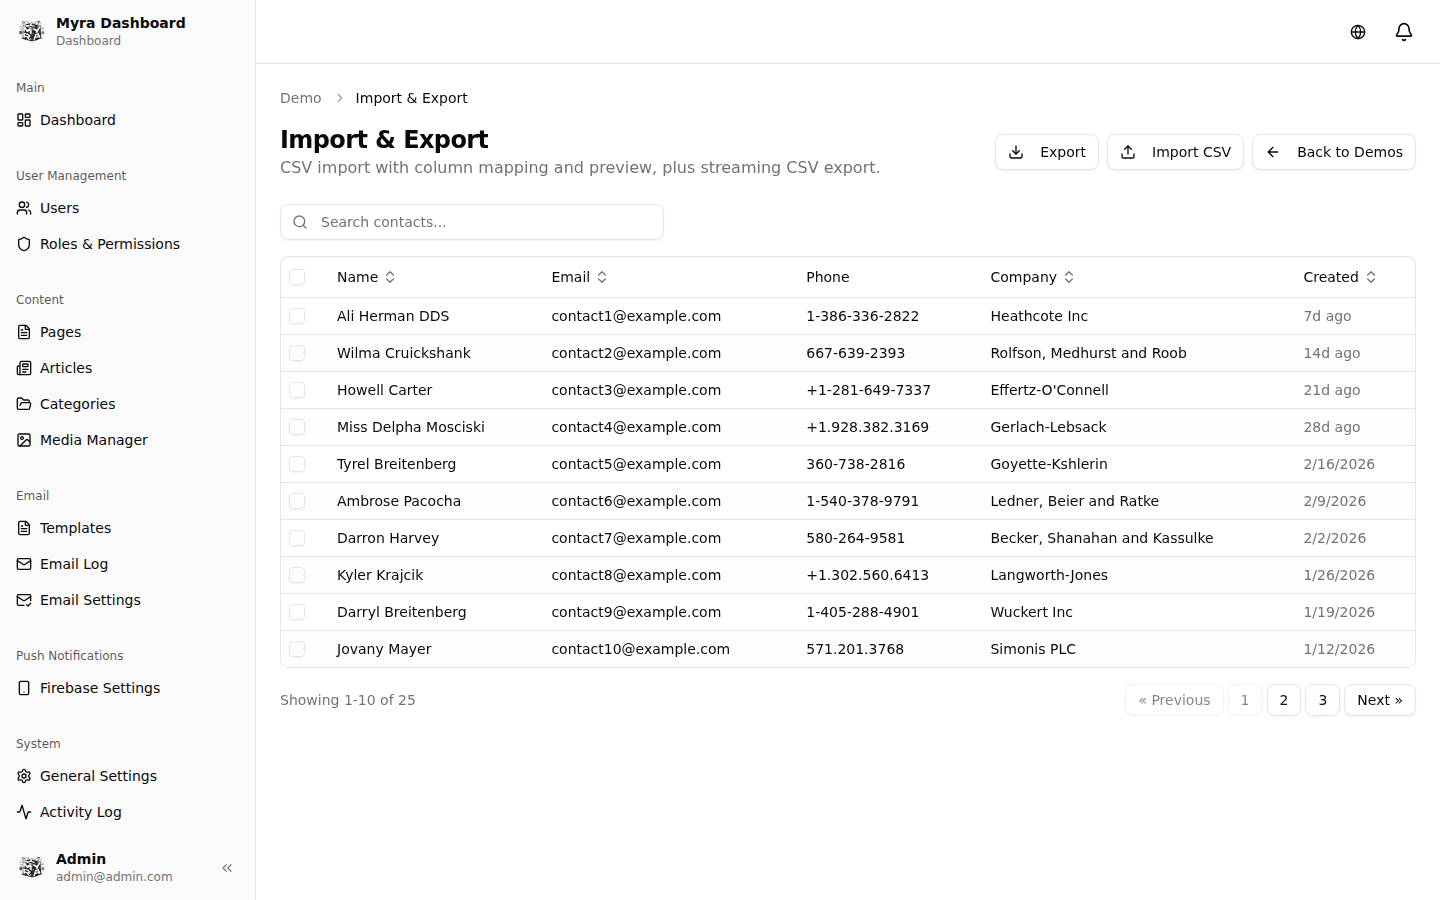
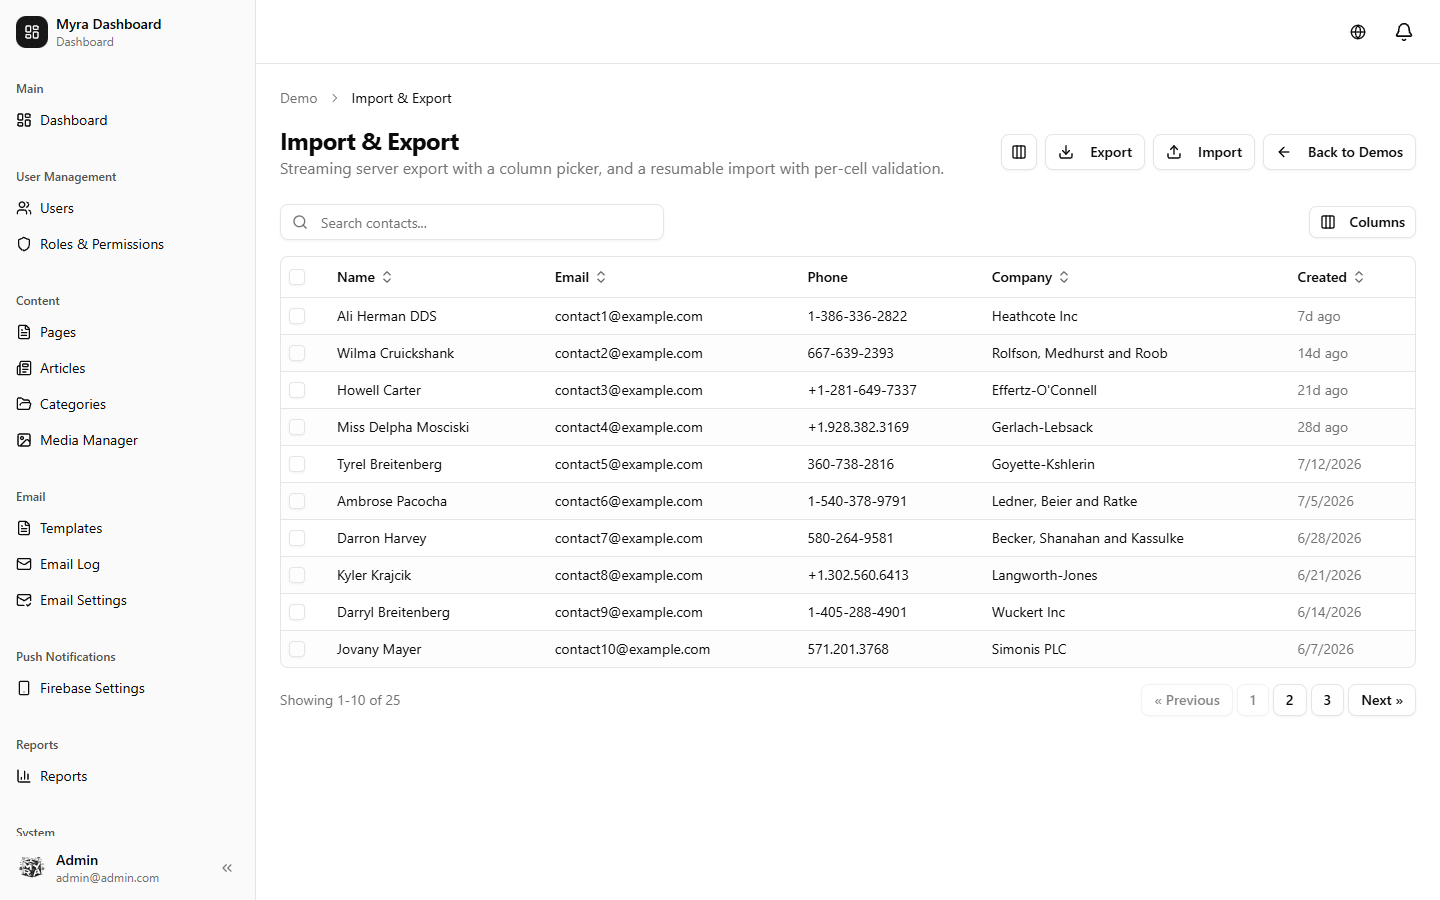
docs: What's New at the top of the README + reporting/dashboard/sql-safety pages, refreshed screenshots
- README: version badge 2.0.0 -> 2.5.1, What's New section covering v2.1.0-v2.5.1 with screenshots
- New docs: reporting.md, dashboard.md, sql-safety.md (previously zero coverage)
- 18 screenshots captured against production; adds the v2.3-v2.5 surfaces
- take-screenshots-v25.mjs: same shape as the existing scripts, chrome path env-overridable

diff --git a/README.md b/README.md
@@ -2,7 +2,7 @@
 
 A production-ready **Laravel 12 + Inertia.js + Vue 3** admin dashboard starter kit with a Filament-style code generator, role-based access control, per-user data isolation, a built-in CMS, an AI writing assistant, and 55+ UI components — so you can ship admin panels with very little hand-written code.
 
-![Version](https://img.shields.io/badge/version-2.0.0-6366f1)
+![Version](https://img.shields.io/badge/version-2.5.1-6366f1)
 [![Tests](https://github.com/spideyrex/myra-starter-kit/actions/workflows/tests.yml/badge.svg)](https://github.com/spideyrex/myra-starter-kit/actions/workflows/tests.yml)
 ![Laravel](https://img.shields.io/badge/Laravel-12-FF2D20?logo=laravel&logoColor=white)
 ![Vue](https://img.shields.io/badge/Vue-3.5-4FC08D?logo=vuedotjs&logoColor=white)
@@ -16,8 +16,102 @@ A production-ready **Laravel 12 + Inertia.js + Vue 3** admin dashboard starter k
 
 ---
 
+## What's New
+
+Everything below shipped after v2.0.0. Every subsystem marked **opt-in** is **off by default** —
+deploying the code changes nothing until you set its flag.
+
+### v2.5.1 — latest
+Runtime dependency fix: `fakerphp/faker` moved from `require-dev` to `require`. App code calls
+`fake()` in 24 places, and production deploys with `--no-dev`, so two demo pages had been returning
+500 since v2.2.0. A guard test now fails CI if runtime code calls into a dev-only package.
+Also: `ESCAPE` handling under MySQL `NO_BACKSLASH_ESCAPES`, and inline-upload URLs no longer
+double the `inline` path segment.
+
+### v2.5.0 — Dashboards, realtime, gallery, AI
+| | |
+|---|---|
+| **Dashboard editor** | Drag-and-drop tiles, per-user saved layouts, widget catalogue, keyboard reordering |
+| **Realtime widgets** *(opt-in)* | Live refresh over Echo on a shared bus — one subscription, not one per widget |
+| **Component gallery** | Searchable catalogue with a live props playground and copy-paste snippets |
+| **Command palette** | Mounted globally across every admin surface |
+| **AI ask bar** *(opt-in)* | Plain-language filters compiled to a **validated rule tree** — never to SQL |
+| **PWA shell** *(opt-in)* | Installable offline shell; caches static assets only, never your data |
+| **Loading states** | Skeleton/streaming states as the default for data surfaces |
+
+<p align="center">
+  <img src="public/docs/screenshots/demo-dashboard-editor.png" alt="Drag-and-drop dashboard editor" width="900">
+  <br><em>Dashboard editor — drag tiles, save a personal layout, add widgets from the catalogue</em>
+</p>
+
+<p align="center">
+  <img src="public/docs/screenshots/demo-playground.png" alt="Component playground" width="900">
+  <br><em>Component gallery with a live props playground</em>
+</p>
+
+### v2.4.0 — Extension, structure, tenancy, scale
+- **Plugin system** — packages that register pages, resources, widgets, permissions and nav.
+  A plugin that fails to load is quarantined, never fatal.
+- **Clusters** + nested and singular resources, with server-contributed navigation.
+- **Multi-tenancy** *(opt-in, `MYRA_TENANCY`)* — full tenant scoping on the teams tables.
+- **Testing helpers** — `InteractsWithMyra`, `TableProbe`, `SchemaProbe`, `ActionProbe`.
+- **100k+ rows** — virtualised rendering, cursor pagination, sort-index guard.
+- Generators: 8 → **13**.
+
+<p align="center">
+  <img src="public/docs/screenshots/demo-scale.png" alt="Virtualised table at scale" width="900">
+  <br><em>Virtualised rows and cursor pagination</em>
+</p>
+
+### v2.3.0 — Reporting, graphs & charts
+- **Report builder** — composable definitions (source, dimensions, measures, filters) with **all
+  aggregation in SQL**, never in PHP or the browser.
+- **15 chart types** — bar/stacked/horizontal, line, area, pie, doughnut, radar, scatter, polar,
+  plus heatmap, funnel, gauge and sparkline as inline SVG.
+- **Drill-down** from a chart segment into the filtered table, and **cross-filtering** between widgets.
+- **Scheduled reports** (cron → render → email) and **PDF export** — no new composer dependency.
+- **Comparison periods** on stat and chart widgets.
+
+<p align="center">
+  <img src="public/docs/screenshots/demo-reports.png" alt="Report builder" width="900">
+  <br><em>Report builder with drill-down and comparison periods</em>
+</p>
+
+### v2.2.0 / v2.2.1 — Table power features
+- **Saved views** — named filter + column + sort presets, per user, shareable.
+- **Column manager** with presets and persistence.
+- **Streaming export** that never buffers the full result set; **resumable import** with column
+  auto-mapping, validation preview and a partial-failure report.
+- **Nested AND/OR query builder** with server-side column and operator whitelisting.
+- **Ranked global search**, scoped per resource.
+- **Security (v2.2.1)** — six unescaped `LIKE` call sites migrated to `Sql::whereLike()`; a `%` in a
+  search box no longer matches every row. Relation sort columns are whitelisted.
+
+<p align="center">
+  <img src="public/docs/screenshots/demo-saved-views.png" alt="Saved views and column manager" width="900">
+  <br><em>Saved views and the column manager</em>
+</p>
+
+### v2.1.0 — Filament v5 parity
+- Form fields: **code** (lazy CodeMirror 6), **markdown**, toggle-buttons, and `hint()` / `hintAction()`
+  across every field type.
+- Table columns: **color**, **checkbox** (inline edit), and summaries extended with min/max/median/range.
+- Infolist: **color** and **code** entries.
+- Actions: **replicate**, **restore**, **force-delete**, and **action grouping** with nested submenus.
+
+### Quality across the line
+| | v2.0.0 | v2.5.1 |
+|---|---|---|
+| PHP tests | 150 | **688** |
+| JS tests (vitest) | none | **541** |
+| Generators | 8 | **13** |
+| RBAC modules | 17 | **19** |
+
+---
+
 ## Table of Contents
 
+- [What's New](#whats-new)
 - [Highlights](#highlights)
 - [Screenshots](#screenshots)
 - [Scaffolding CLI](#scaffolding-cli)

diff --git a/docs/admin-framework/dashboard.md b/docs/admin-framework/dashboard.md
@@ -1,0 +1,102 @@
+# Dashboard, Realtime, AI & PWA
+
+Shipped in **v2.5.0**. Every subsystem on this page except the dashboard editor is **opt-in and off
+by default** — deploying the code changes nothing until you set its flag.
+
+| Subsystem | Flag | Default |
+|---|---|---|
+| Dashboard editor | — | on |
+| Realtime widgets | `MYRA_REALTIME` | **off** |
+| AI filter / schema / summarise | `MYRA_AI_FILTER`, `MYRA_AI_SCHEMA`, `MYRA_AI_SUMMARISE` | **off** |
+| PWA shell | `MYRA_PWA` | **off** |
+
+---
+
+## Dashboard editor
+
+![Dashboard editor](../../public/docs/screenshots/demo-dashboard-editor.png)
+
+Drag tiles into place and save a per-user layout; add widgets from the catalogue without writing
+code. Layouts persist to `dashboard_layouts`, keyed by user and dashboard.
+
+Reordering is keyboard accessible. `DashboardGrid` emits an **ordered key sequence**, not a
+positional index — a grid-local index is ambiguous once a dashboard has more than one grid.
+
+```ts
+const { layout, reorderWithin, save } = useDashboardLayout('main');
+```
+
+## Realtime widgets
+
+![Live widgets](../../public/docs/screenshots/demo-live-widgets.png)
+
+Widgets refresh over the already-wired Laravel Echo connection. A dashboard of N live widgets uses
+**one** subscription through a shared bus, not N.
+
+Server side, a model touch emits a signal that is **queued**, never fanned out inside the request:
+
+```php
+use App\Admin\Realtime\Concerns\TouchesWidgets;
+
+class Order extends Model
+{
+    use TouchesWidgets;   // queues EmitWidgetSignal on save
+}
+```
+
+## Loading states
+
+`DataSurface` plus the skeleton components are the default for any data surface, so a slow query
+shows structure rather than a spinner.
+
+```vue
+<DataSurface :loading="loading" :error="error">
+    <template #skeleton><SkeletonTable :rows="10" /></template>
+    <DataTable ... />
+</DataSurface>
+```
+
+## AI ask bar
+
+![AI ask bar](../../public/docs/screenshots/demo-ai-filter.png)
+
+Describe a filter in plain language and it is compiled into the **existing validated
+`App\Admin\QueryBuilder` rule tree**, then re-validated server-side exactly like a hand-built one.
+
+**The model never produces SQL.** It emits a JSON envelope of column/operator/value triples; every
+column is checked against `FieldSpec`'s whitelist and every operator against the closed `Operator`
+enum before anything reaches the database. Model output is treated as hostile input.
+
+Other guarantees:
+
+- Provider API keys are read server-side only and never reach the client or an Inertia prop.
+- AI endpoints are permission-gated and rate-limited.
+- Anything summarised is already ownership-scoped for the acting user — no cross-user leakage.
+
+## PWA shell
+
+![Offline shell](../../public/docs/screenshots/demo-offline-shell.png)
+
+An installable app shell that keeps working without a connection.
+
+**The service worker caches only the static shell and build assets.** No admin JSON, no Inertia
+response, no user data ever enters the cache — otherwise the next person on a shared browser could
+read the previous user's data.
+
+## Component gallery & command palette
+
+![Component playground](../../public/docs/screenshots/demo-playground.png)
+
+The gallery is a searchable catalogue of every demo surface with a live props playground and
+copy-paste snippets. A server-side `DemoRegistry` keeps the gallery and the pages in
+`resources/js/Pages/Admin/Demo/` from drifting apart — a page without an entry, or an entry without
+a page, fails the test suite.
+
+The command palette is mounted globally across every admin surface.
+
+---
+
+## Related
+
+- [Reporting](reporting.md) — the report widgets a dashboard displays
+- [Tenancy](tenancy.md) — tenant scoping, also opt-in

diff --git a/docs/admin-framework/reporting.md b/docs/admin-framework/reporting.md
@@ -1,0 +1,88 @@
+# Reporting, Charts & Delivery
+
+Shipped in **v2.3.0**. Everything here aggregates in SQL — no code path pulls rows into PHP or the
+browser to compute a total.
+
+![Report builder](../../public/docs/screenshots/demo-reports.png)
+
+---
+
+## Report definitions
+
+A report declares a source, its dimensions, its measures and the filters it accepts. The runner
+compiles that into a single `GROUP BY` query.
+
+```php
+use App\Admin\Report\{ReportDefinition, Dimension, Measure, Bucket, PeriodPreset};
+
+ReportDefinition::make('users')
+    ->model(User::class)
+    ->titleKey('reports.users.title')
+    ->dimensions([
+        Dimension::make('status'),
+        Dimension::make('created_at')
+            ->allowedBuckets([Bucket::Day, Bucket::Week, Bucket::Month, Bucket::Quarter]),
+    ])
+    ->measures([
+        Measure::count('signups'),
+    ])
+    ->periods([PeriodPreset::Last7Days, PeriodPreset::Last90Days]);
+```
+
+Key behaviours:
+
+- **Bucket coarsening.** If the auto-granularity bucket is not in `allowedBuckets`, the request
+  coarsens to the finest allowed bucket that still fits the group cap rather than erroring.
+- **Group cap.** A request that would exceed `maxGroupCount` is refused with a 422 carrying
+  `reports.errors.tooManyBuckets` — it never runs an unbounded aggregate.
+- **Ownership.** A report aggregates only over records the acting user can see; scoping is applied
+  before aggregation, not after.
+
+## Charts
+
+15 types. Chart.js backs bar/stacked/horizontal, line, area/stacked, pie, doughnut, radar, scatter
+and polar; heatmap, funnel, gauge and sparkline render as inline SVG.
+
+```ts
+ChartWidget.make('signups')
+    .type('stackedBar')
+    .report('users')
+    .compare('previous');   // comparison period: previous | year
+```
+
+Charts receive aggregated buckets only. A chart over ten million rows sends the same payload as one
+over ten.
+
+## Drill-down and cross-filtering
+
+Clicking a chart segment opens the filtered table. The drill resolver derives the segment's calendar
+range from its bucket key and ANDs the dimension rule onto the already-validated rule tree, so a
+drill-through lands on a real `DataTable` with real filters — not a separate one-off view.
+
+Cross-filtering lets one widget constrain the others on the same dashboard.
+
+`DrillResolver` is resolved optionally:
+
+```php
+$resolver = app()->bound(DrillResolver::class) ? app(DrillResolver::class) : null;
+```
+
+With nothing bound, `row.drill` is `null` and the table simply does not offer a drill-through.
+
+## Scheduled delivery and PDF
+
+![Scheduled report delivery](../../public/docs/screenshots/demo-report-delivery.png)
+
+A schedule renders a report on a cron cadence and emails it using the existing email-template module.
+PDF export is a hand-rolled streaming writer built on the same `RowWriter` interface as the XLSX
+writer — **no new composer dependency**, and it streams rather than buffering.
+
+Recipients are resolved per schedule and are ownership-scoped: a schedule cannot mail a report
+containing rows its owner could not see.
+
+---
+
+## Related
+
+- [Table Builder](table-builder.md) — the query builder and saved views a drill-through lands on
+- [Dashboard & Realtime](dashboard.md) — where report widgets are placed

diff --git a/docs/admin-framework/sql-safety.md b/docs/admin-framework/sql-safety.md
@@ -1,0 +1,66 @@
+# SQL Safety — building a LIKE predicate
+
+`App\Support\Sql::whereLike()` is the **only** sanctioned way to build a LIKE predicate in this
+codebase. A guard test fails CI if anything under `app/` bypasses it.
+
+---
+
+## Use this
+
+```php
+use App\Support\Sql;
+
+Sql::whereLike($query, 'name', $request->string('q'));                    // contains
+Sql::whereLike($query, 'mime_type', $type, 'starts');                     // starts | ends | exact
+Sql::orWhereLike($query, 'email', $term);                                 // OR-joined
+```
+
+## Never this
+
+```php
+$query->where('name', 'like', "%{$term}%");          // unescaped: a '%' matches every row
+$query->where('name', 'like', Sql::like($term));     // escaped, but no ESCAPE clause — inert on SQLite
+```
+
+## Why both halves matter
+
+`Sql::like()` escapes `%`, `_` and `\` so a user's wildcard cannot widen the match or force a full
+table scan. But the escaped pattern is only **half** of the contract — it has to travel with an
+explicit `ESCAPE` clause:
+
+- **SQLite** has *no default escape character*. Without `ESCAPE`, `\%` matches a literal backslash
+  followed by a percent, so an escaped search silently returns nothing.
+- **MySQL/MariaDB** treat backslash as the default escape, so the same code appears to work.
+
+That asymmetry is why this shipped broken once: the escaping was correct on production MySQL and
+inert on the SQLite test database. `whereLike()` emits the pattern *and* the clause together, so the
+two halves cannot drift apart.
+
+### Driver-aware escape literal
+
+MySQL and MariaDB reprocess backslashes inside string literals, so the escape character is emitted
+doubled there — **unless** `sql_mode` contains `NO_BACKSLASH_ESCAPES`, where the doubled form is a
+two-character string that MySQL rejects as an `ESCAPE` argument. `Sql` probes `@@sql_mode` once per
+connection, caches the result, and falls back to standard behaviour if the probe errors.
+
+SQLite, PostgreSQL (with `standard_conforming_strings`) and SQL Server take the literal as written.
+
+## Column safety
+
+The predicate is raw SQL, so the identifier is validated against
+`/^[A-Za-z0-9_]+(\.[A-Za-z0-9_]+)*$/` and then passed through the grammar's `wrap()`. Anything else
+throws `InvalidArgumentException`. The search term always stays a bound parameter.
+
+## History
+
+Six call sites interpolated raw user input into a LIKE pattern with no escaping on any driver —
+`UserService::exportQuery()`, `AdminNotificationController`, `ActivityLogController`,
+`EmailLogController`, `MediaController` and `HasRelationManagers`. All were migrated in **v2.2.1**
+and are covered by `tests/Feature/Security/LikeEscapingTest.php`.
+
+---
+
+## Related
+
+- [PHP Backend](php-backend.md) — `SearchableQuery` and the controller layer
+- [Table Builder](table-builder.md) — the query builder's own operator whitelist

diff --git a/docs/admin-framework/README.md b/docs/admin-framework/README.md
@@ -14,6 +14,10 @@ An admin framework built on Laravel + Inertia.js + Vue 3 (TypeScript) with shadc
 | [Scaffold Commands](scaffold-commands.md) | Artisan commands for generating resources and pages |
 | [PHP Backend](php-backend.md) | Controllers, services, and the SearchableQuery trait |
 | [Type Definitions](type-definitions.md) | TypeScript interfaces and types |
+| [Reporting](reporting.md) | Report builder, 15 chart types, drill-down, scheduled delivery, PDF |
+| [Dashboard & Realtime](dashboard.md) | Dashboard editor, live widgets, AI ask bar, PWA shell, gallery |
+| [Tenancy](tenancy.md) | Multi-tenant scoping (opt-in, off by default) |
+| [SQL Safety](sql-safety.md) | `Sql::whereLike()` — the only sanctioned way to build a LIKE predicate |
 
 ## Architecture Overview
 
